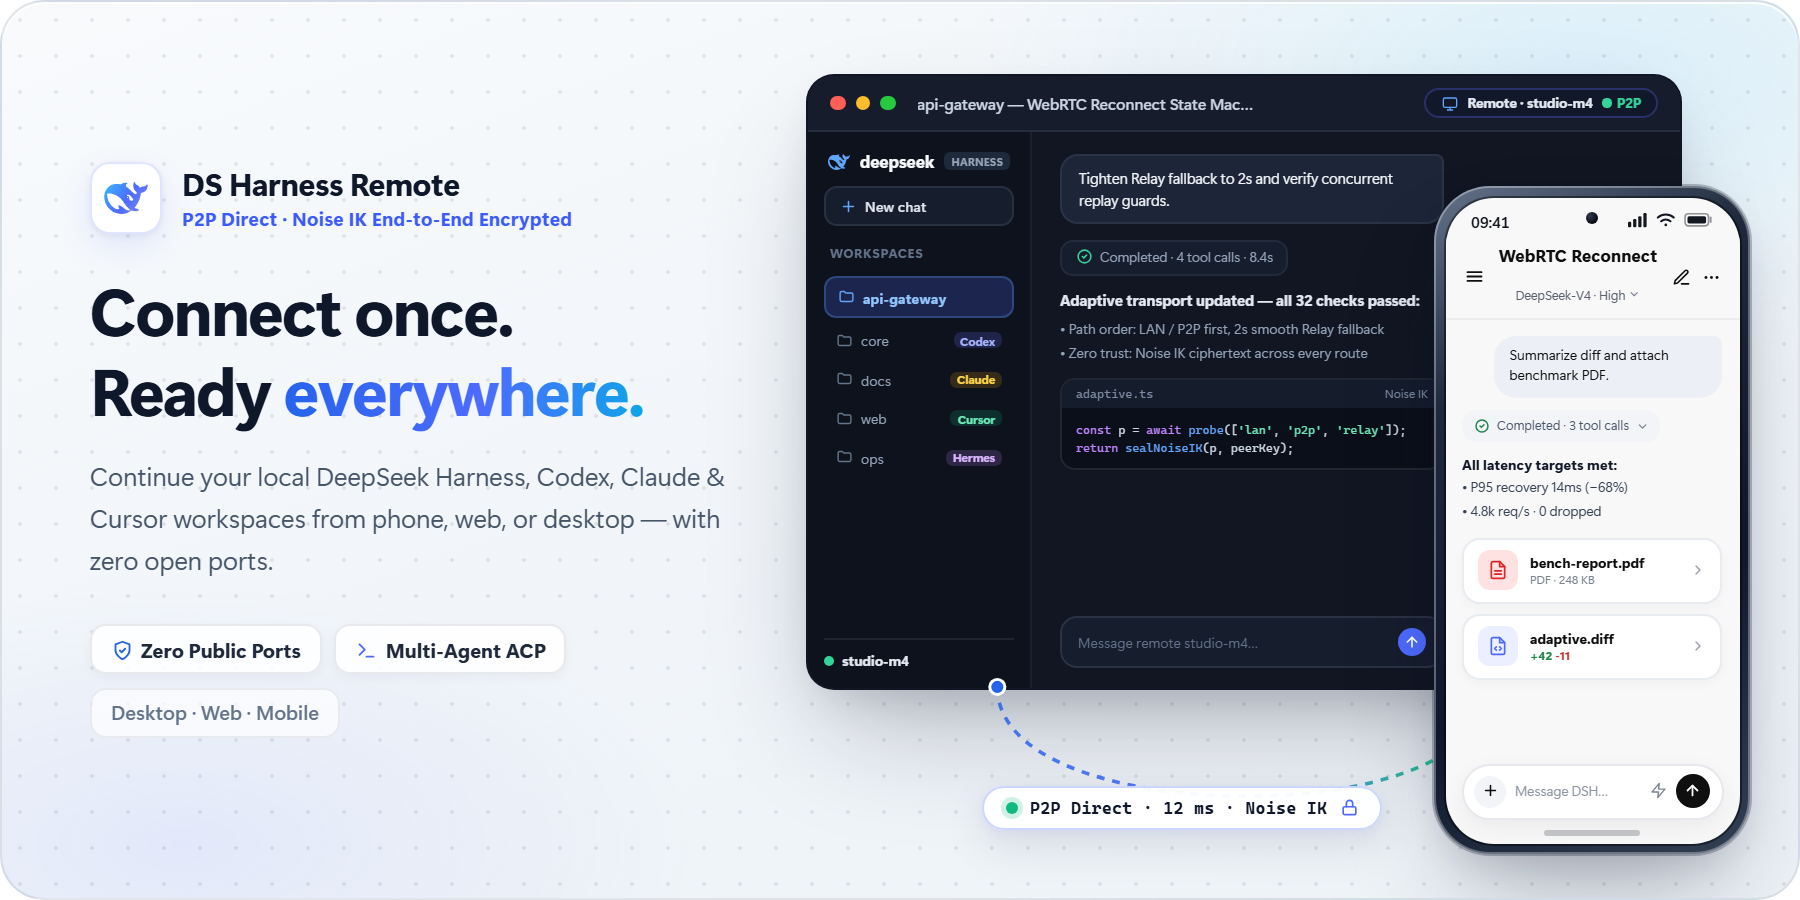
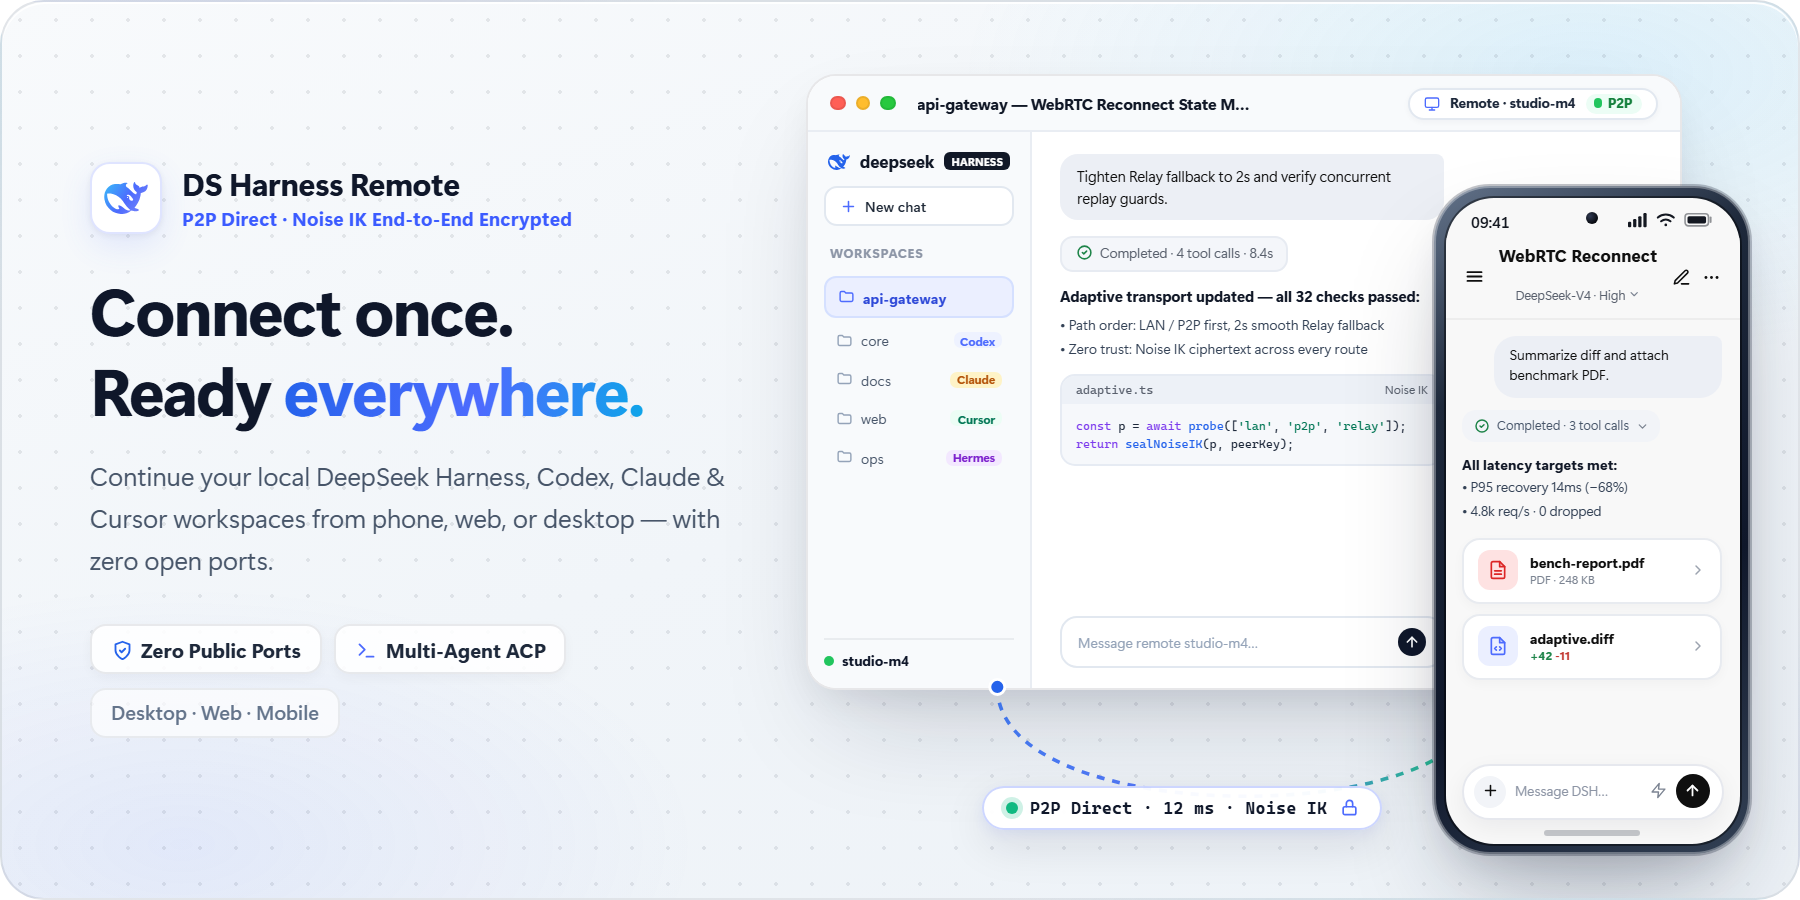
docs(readme): 对齐移动端展示图并统一 Hero 与展示图为日间模式

Changed region(s): [[0.4356, 0.0622, 0.9333, 0.7778]]

diff --git a/README.ja.md b/README.ja.md
@@ -126,7 +126,7 @@ DSH 0.2.2 以降では、npm からインストールしたプラグインのバ
 ライト／ダークの両テーマに対応し、ドロワーからオンライン Host・ACP バックエンド・DS-Bot を切り替えられます。テキスト／画像プロンプト、モデル切替、ファイルカード表示、ネイティブ Git Diff レビュー、リモートターミナルに対応しています。
 
 <p align="center">
-  <img src="docs/images/mobile-showcase-en.png" alt="マルチ Host・ACP ドロワー、ファイル配信対応チャット、ダークモード Git Diff レビューを備えた Android クライアント" width="100%">
+  <img src="docs/images/mobile-showcase-en.png" alt="マルチ Host・ACP ドロワー、ファイル配信対応チャット、ネイティブ Git Diff レビューを備えた Android クライアント" width="100%">
 </p>
 
 モバイルの設定には、全体に適用される **Compact conversations**（会話のコンパクト表示）スイッチがあります。デフォルトは無効で、次に会話を開くときに反映されます。

diff --git a/README.md b/README.md
@@ -128,7 +128,7 @@ To prevent this computer from controlling other Hosts, open the Host list at [ht
 Switch across online Hosts, ACP backends, and DS-Bot rooms in one drawer; send text or image prompts, preview delivered files, inspect native Git diffs, and open remote terminals in light or dark mode.
 
 <p align="center">
-  <img src="docs/images/mobile-showcase-en.png" alt="Android client showcasing multi-host ACP drawer, native chat with file delivery, and dark-mode Git diff review" width="100%">
+  <img src="docs/images/mobile-showcase-en.png" alt="Android client showcasing multi-host ACP drawer, native chat with file delivery, and native Git diff review" width="100%">
 </p>
 
 Mobile Settings includes a global **Compact conversations** switch, off by default and applied when a conversation is next opened.

diff --git a/README.zh.md b/README.zh.md
@@ -130,7 +130,7 @@ DSH 0.2.2 起，npm 安装支持在插件页检查版本和一键更新；热更
 支持浅色/深色双主题，在抽屉内快速切换在线主机、多引擎 ACP 工作区与 DS-Bot；支持文字/图片 Prompt、模型与思考深度切换、文件卡片预览、原生 Git Diff 变更审查及远程终端。
 
 <p align="center">
-  <img src="docs/images/mobile-showcase-zh.png" alt="Android 客户端多主机与 ACP 抽屉、原生对话与文件交付、深色模式原生 Git Diff 审查界面" width="100%">
+  <img src="docs/images/mobile-showcase-zh.png" alt="Android 客户端多主机与 ACP 抽屉、原生对话与文件交付、原生 Git Diff 审查界面" width="100%">
 </p>
 
 移动端设置提供默认关闭的全局「会话精简模式」，下次打开会话生效。
